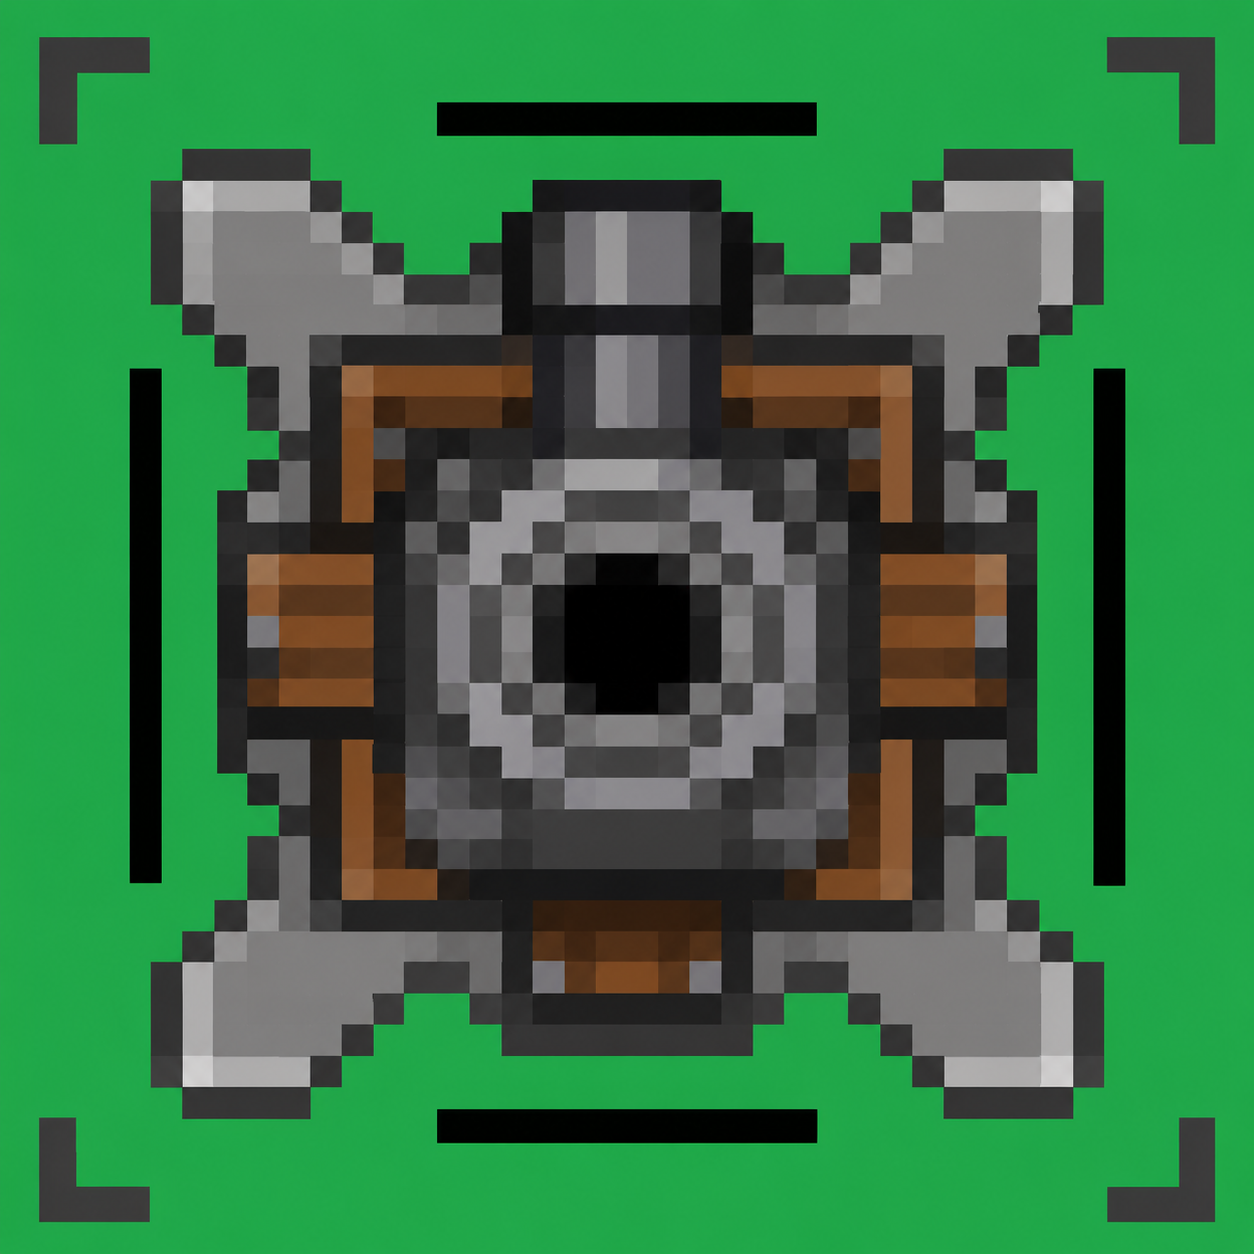
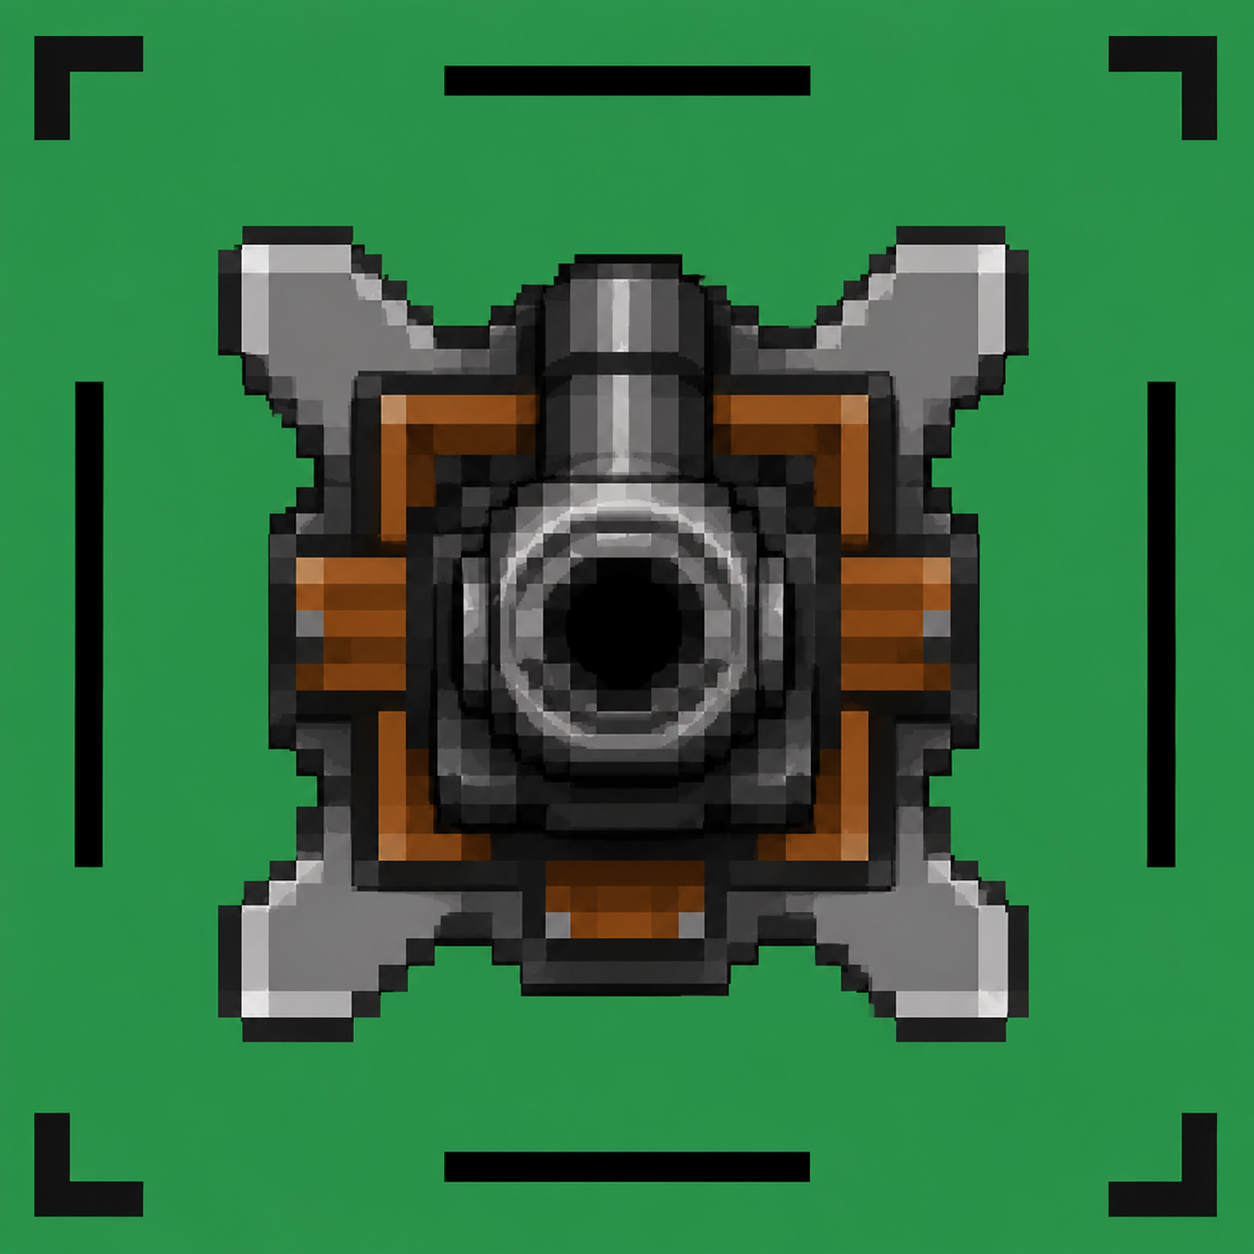
Ajout des images de tours

diff --git a/src/main/java/universite_paris8/iut/ademir/demo1/Modele/Jeu/Partie.java b/src/main/java/universite_paris8/iut/ademir/demo1/Modele/Jeu/Partie.java
@@ -117,7 +117,7 @@ public class Partie {
     }
 
     public void faireAmeliorerTours(Tour t){
-        if (t.getNivT() < t.getNivMax() ) {
+        if (t.getNivT() < t.getNivMax() && rubis >= 50) {
             t.ameliorer();
             rubis -= prixAmelioration;
         }